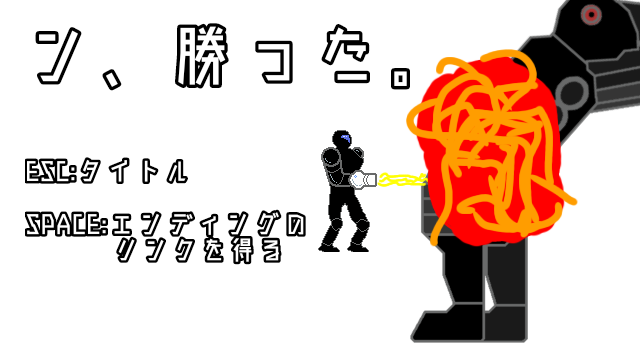
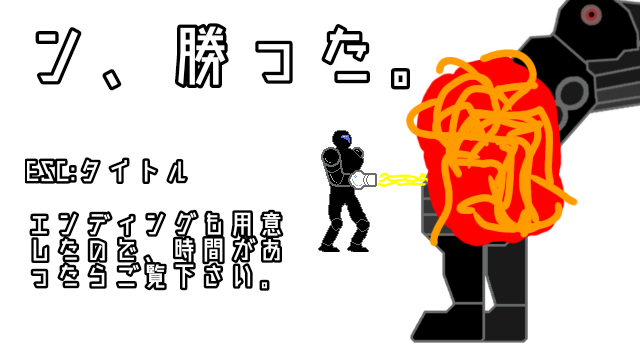
プレイ会版完成

Changed region(s): [[0.0312, 0.5806, 0.5, 0.825]]

diff --git a/scene/GameScene.cpp b/scene/GameScene.cpp
@@ -80,33 +80,7 @@ void GameScene::Update()
 		if (input_->TriggerKey(DIK_RETURN)) { scene_ = Scene::Play; }
 		break;
 	case GameScene::GameClear:
-		if (input_->TriggerKey(DIK_ESCAPE)) { scene_ = GameScene::Title; isGetLink = 0; }
-		if (input_->TriggerKey(DIK_SPACE))
-		{
-			FILE* file;
-			if (!isHardMode)
-			{
-				if (fopen_s(&file, "エンディングリンク.txt", "w") == 0)
-				{
-					fprintf(file, "クリアおめでとうございます。こちらがエンディングを見るためのリンクです。\n");
-					fprintf(file, "検索エンジンで下記URLを貼り付けて下さい。\n\n");
-					fprintf(file, "https://drive.google.com/file/d/1baJpTZh645Fu9sv8loQcIi_KjeRuPLEa/view?usp=sharing");
-					fprintf(file, "\n\n追記:チュートリアルで左SHIFTキーを押しながらゲームを開始すると...？");
-				}
-			}
-			else
-			{
-				if (fopen_s(&file, "真エンディングリンク.txt", "w") == 0)
-				{
-					fprintf(file, "ハードモードクリアおめでとうございます。ここまで遊んで頂きありがとうございます。\n");
-					fprintf(file, "検索エンジンで下記URLを貼り付けて下さい。\n\n");
-					fprintf(file, "https://drive.google.com/file/d/1dvZLAf-0L9Kxhf1NkmYfMowHyXQCt1Uc/view?usp=sharing");
-					fprintf(file, "\n\nこれは真エンディングを見るためのリンクです。");
-				}
-			}
-			if (file) { fclose(file); }
-			isGetLink = 1;
-		}
+		if (input_->TriggerKey(DIK_ESCAPE)) { scene_ = GameScene::Title; }
 		break;
 	case GameScene::GameOver:
 		if (input_->TriggerKey(DIK_SPACE))
@@ -159,11 +133,10 @@ void GameScene::Draw()
 
 	// ここに前景スプライトの描画処理を追加できる
 	if (themeSprite_[scene_]) { themeSprite_[scene_]->Draw(); }
-	if (isGetLink) { themeSprite_[Scene::Pause + 2 + isHardMode]->Draw(); }
 	player_->DamageEffectDraw();
 	switch (scene_)
 	{
-	case Scene::Play: for (size_t i = 0; i < hpGauge_.size(); i++) { hpGauge_[i]->Draw(); }
+	case Scene::Play: for (size_t i = 0; i < hpGauge_.size() - !isHardMode; i++) { hpGauge_[i]->Draw(); }
 	case Scene::HowToPlay: reticle_->Draw();
 		break;
 	case Scene::Pause: themeSprite_[Scene::Pause + 1]->Draw();
@@ -187,8 +160,6 @@ void GameScene::LoadResources()
 	themeSprite_.push_back(Sprite::Create(TextureManager::Load("picture/GameOver.png"), {}));
 	themeSprite_.push_back(Sprite::Create(TextureManager::Load("white1x1.png"), { 128,72 }, { 0,0,0,0.95f }));
 	themeSprite_.push_back(Sprite::Create(TextureManager::Load("picture/pausemenu.png"), { 138,72 }));
-	themeSprite_.push_back(Sprite::Create(TextureManager::Load("picture/GetLink.png"), {}));
-	themeSprite_.push_back(Sprite::Create(TextureManager::Load("picture/GetLink2.png"), {}));
 	for (size_t i = 0; i < themeSprite_.size(); i++)
 	{
 		if (!themeSprite_[i]) { continue; }
@@ -203,8 +174,10 @@ void GameScene::LoadResources()
 	hpGauge_.push_back(Sprite::Create(TextureManager::Load("picture/enemy.png"), { 640 + leftSpace,20 }));
 	hpGauge_.push_back(Sprite::Create(TextureManager::Load("white1x1.png"), { leftSpace + 42,20 }, { 0,0,0.95f,1 }));
 	hpGauge_.push_back(Sprite::Create(TextureManager::Load("white1x1.png"), { 640 + leftSpace + 42,20 }, { 0.95f,0,0,1 }));
+	hpGauge_.push_back(Sprite::Create(TextureManager::Load("picture/enemyhard.png"), { 640 + leftSpace,20 }));
 	hpGauge_[0]->SetSize({ 32,64 });
-	hpGauge_[1]->SetSize({ 32,64 });
+	hpGauge_[1]->SetSize(hpGauge_[0]->GetSize());
+	hpGauge_[4]->SetSize(hpGauge_[0]->GetSize());
 #pragma endregion
 #pragma region オーディオ読み込み
 	bgm_.push_back(audio_->LoadWave("sound/bgm/title.mp3"));
@@ -222,7 +195,7 @@ void GameScene::AudioManage()
 		switch (scene_)
 		{
 		case GameScene::Title:
-			playBGMHandle = audio_->PlayWave(bgm_[0],true);
+			playBGMHandle = audio_->PlayWave(bgm_[0], true);
 			break;
 		case GameScene::HowToPlay:
 			playBGMHandle = audio_->PlayWave(bgm_[1], true);

diff --git a/scene/GameScene.h b/scene/GameScene.h
@@ -41,7 +41,7 @@ private:
 	vector<Sprite*> themeSprite_;
 	vector<Sprite*> hpGauge_;
 	vector<uint32_t> bgm_, se_;
-	bool isGetLink = 0, isHardMode = 0;
+	bool isHardMode = 0;
 	uint32_t playBGMHandle = 0;
 
 	// ゲームシーン用
